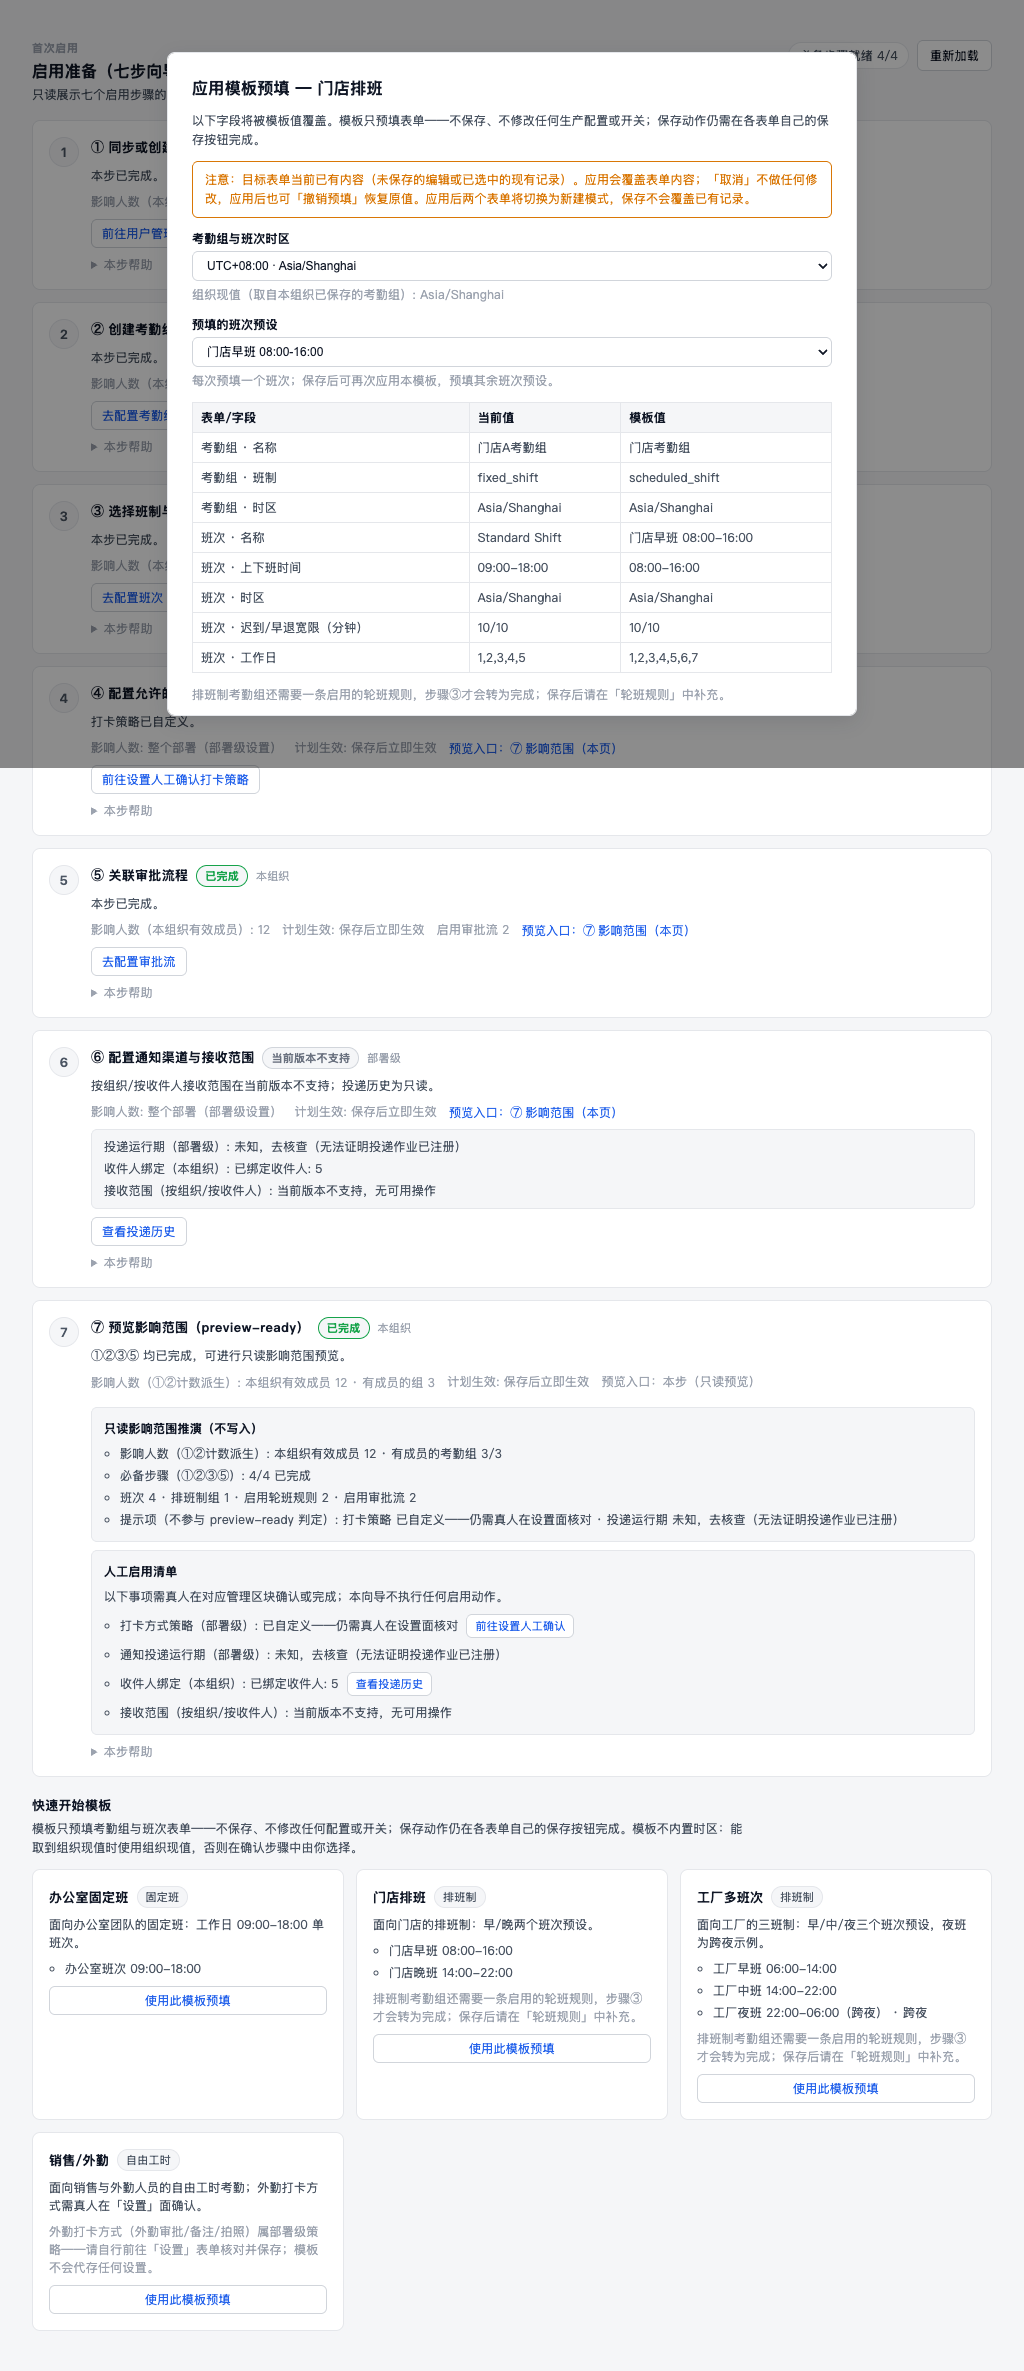
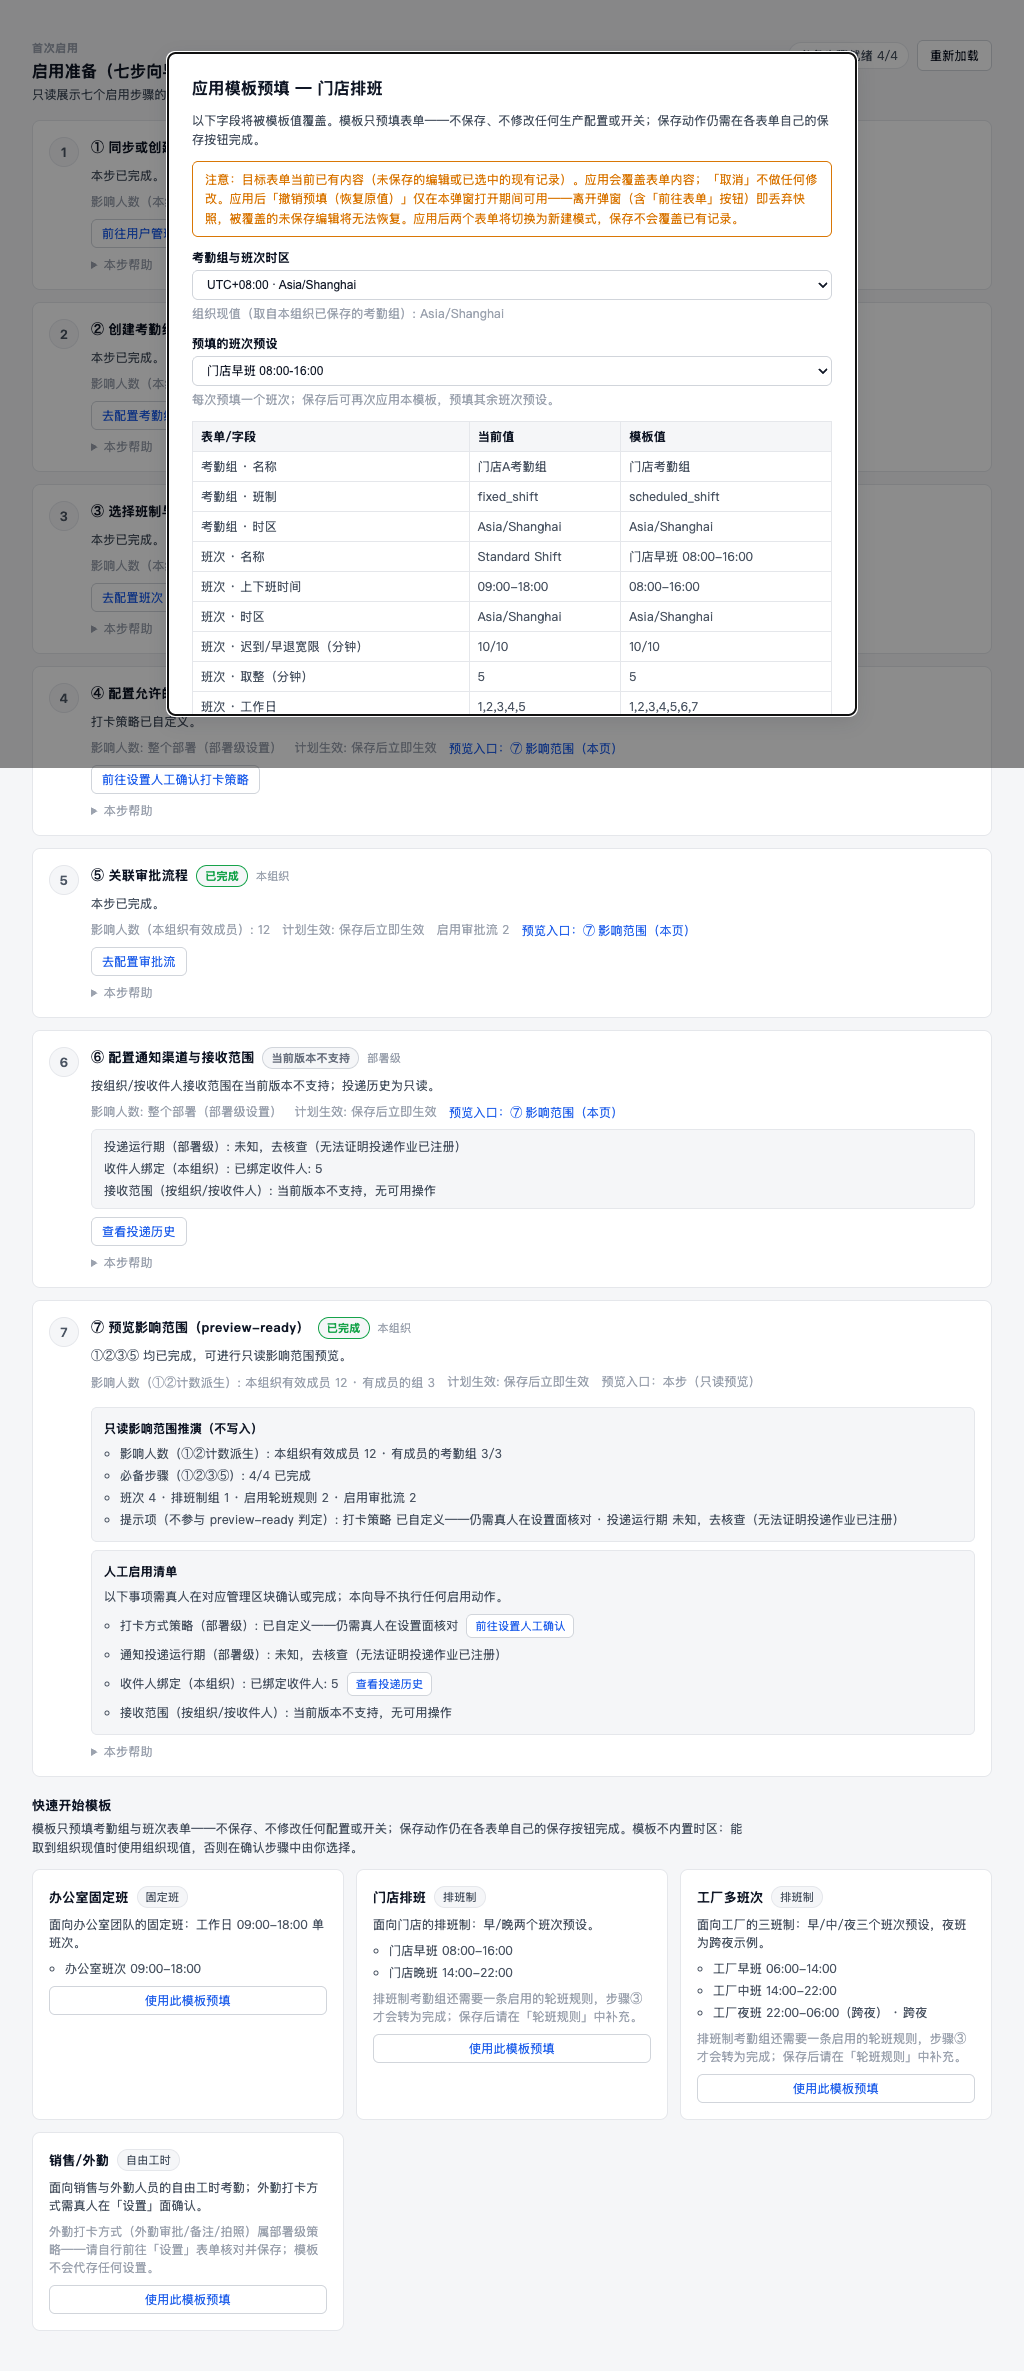
docs(attendance): W4-2 review absorption — in-repo §9 metrics runner + re-captured dialog evidence
- New docs/development/assets/w4-2-vnext-20260722/metrics-harness/setup-metrics-walk.ts:
  reproducible synthetic-org walk to preview-ready (real MetaSheetServer + plugin-attendance
  on real Postgres; dev-token admin + RBAC_BYPASS house posture). Prints a values-free
  ledger, asserts the exact final readiness shape (previewReady=true), restores settings
  (targeted key), deletes every fixture row and asserts residue=0. Honest measurement
  semantics printed by the runner itself: API wall clock proves reachability + step count —
  NOT the 20-minute human budget, NOT the no-internal-id property (UI-flow property, held
  by the wizard specs).
- Re-captured three-viewport evidence at the new head (capture harness, 8/8 presence PASS):
  4 dialog PNGs updated (rounding row / scoped-undo warning / undo-scope note / close
  button); 4 gallery PNGs byte-identical. Harness passes the new onClose noop.

Changed region(s): [[0.1875, 0.0624, 0.75, 0.3121], [0.75, 0.0624, 0.7812, 0.0936]]

diff --git a/docs/development/assets/w4-2-vnext-20260722/metrics-harness/setup-metrics-walk.ts b/docs/development/assets/w4-2-vnext-20260722/metrics-harness/setup-metrics-walk.ts
@@ -1,0 +1,281 @@
+// W4-2 §9 metric evidence runner (Wave 4 onboarding design-lock 2026-07-21, RATIFIED §9/§10):
+// synthetic-org walk to preview-ready against a REAL MetaSheetServer + plugin-attendance on a real
+// Postgres. Checked into the repo (docs/ assets — same posture as the sibling capture-harness/,
+// outside every CI gate glob) so the PR's §9 ledger is REPRODUCIBLE, not prose-only.
+//
+// Run from the repo root (needs a migrated MetaSheet Postgres; fail-closed without one):
+//   DATABASE_URL=postgresql://... pnpm --filter @metasheet/core-backend exec tsx \
+//     ../../docs/development/assets/w4-2-vnext-20260722/metrics-harness/setup-metrics-walk.ts
+//
+// What it does (house integration posture — dev-token admin + RBAC_BYPASS, exactly like
+// packages/core-backend `test:integration:attendance`):
+//   provision (OUTSIDE the walk): one `directory_integrations` local anchor row for a synthetic
+//   org (the org anchor `POST /api/admin/users` validates `attendanceOrgId` against; W4-PRE-1b).
+//   walk 基线: GET setup-readiness ⇒ asserts previewReady=false, member count 0.
+//   walk ①:  POST /api/admin/users (explicit attendanceOrgId — W4-PRE-1 canonical face)
+//   walk ②a: POST /api/attendance/groups
+//   walk ②b: POST /api/attendance/groups/:id/members
+//   walk ③:  POST /api/attendance/shifts
+//   walk ⑤:  POST /api/attendance/approval-flows
+//   walk ④:  GET + PUT /api/attendance/settings (the human canonical confirm path; restored
+//            byte-for-byte in cleanup)
+//   walk ⑦:  GET setup-readiness ⇒ asserts the EXACT final counts + previewReady=true.
+//   cleanup (OUTSIDE the walk): restore settings, delete every fixture row, then a residue
+//   count over every touched table — asserts 0.
+//
+// MEASUREMENT SEMANTICS (honest labeling — review finding absorbed): the TOTAL printed below is
+// API wall clock for the 7 admin-surface steps. It proves REACHABILITY (the synthetic org really
+// arrives at preview-ready — lock §9's §3.2 closed-loop requirement) and the step count. It does
+// NOT measure the charter §9 "new HR in 20 minutes" HUMAN budget, and the walk necessarily uses
+// internal ids in path params (walk ②b) and JSON bodies — so it does NOT prove the charter's
+// "no JSON / no internal id" property. That property belongs to the UI flow (wizard gallery →
+// template prefill → canonical forms) and is held by the wizard specs, not by this runner.
+//
+// Output is values-free: durations, counts, and enum values only — no ids, names, or settings
+// values are printed.
+
+const dbUrl = process.env.DATABASE_URL || process.env.ATTENDANCE_TEST_DATABASE_URL
+if (!dbUrl) {
+  // Fail closed: no default DB, no silent skip.
+  console.error('FAIL: DATABASE_URL (or ATTENDANCE_TEST_DATABASE_URL) is required.')
+  process.exit(1)
+}
+process.env.DATABASE_URL = dbUrl
+process.env.RBAC_BYPASS = 'true'
+process.env.SKIP_PLUGINS = 'false'
+if (!process.env.DB_QUERY_TIMEOUT) process.env.DB_QUERY_TIMEOUT = '180000'
+if (!process.env.DB_STATEMENT_TIMEOUT) process.env.DB_STATEMENT_TIMEOUT = '180000'
+
+interface LedgerRow {
+  label: string
+  seconds: number
+}
+
+function assertEqual(actual: unknown, expected: unknown, label: string): void {
+  if (actual !== expected) {
+    throw new Error(`ASSERT ${label}: expected ${String(expected)}, got ${String(actual)}`)
+  }
+}
+
+async function main(): Promise<void> {
+  const path = await import('node:path')
+  const { fileURLToPath } = await import('node:url')
+  const here = path.dirname(fileURLToPath(import.meta.url))
+  const repoRoot = path.resolve(here, '../../../../..')
+
+  // Import server code only AFTER env is set — the DB pool initializes at module import.
+  const { MetaSheetServer } = await import('../../../../../packages/core-backend/src/index')
+  const { query } = await import('../../../../../packages/core-backend/src/db/pg')
+
+  const server = new MetaSheetServer({
+    port: 0,
+    host: '127.0.0.1',
+    pluginDirs: [path.join(repoRoot, 'plugins', 'plugin-attendance')],
+  })
+  await server.start()
+  const address = server.getAddress()
+  if (!address || typeof address === 'string') {
+    throw new Error('Server did not expose a TCP address')
+  }
+  const baseUrl = `http://127.0.0.1:${address.port}`
+
+  const runId = Date.now().toString(36)
+  const orgId = `w42-metrics-${runId}`
+  const username = `w42metrics${runId}`
+
+  const tokenRes = await fetch(
+    `${baseUrl}/api/auth/dev-token?userId=w42-metrics-admin-${runId}&roles=admin&perms=attendance:read,attendance:write,attendance:admin`,
+  )
+  const token = ((await tokenRes.json()) as { token?: string }).token
+  if (!token) throw new Error('dev-token unavailable (NODE_ENV=production?)')
+  const headers = { Authorization: `Bearer ${token}`, 'Content-Type': 'application/json' }
+
+  async function call(method: string, url: string, body?: unknown): Promise<any> {
+    const res = await fetch(`${baseUrl}${url}`, {
+      method,
+      headers,
+      body: body === undefined ? undefined : JSON.stringify(body),
+    })
+    const json = (await res.json().catch(() => undefined)) as any
+    if (!res.ok || (json && json.ok === false)) {
+      throw new Error(`${method} ${url} -> HTTP ${res.status} code=${json?.error?.code ?? 'unknown'}`)
+    }
+    return json
+  }
+
+  const ledger: LedgerRow[] = []
+  async function step<T>(label: string, fn: () => Promise<T>): Promise<T> {
+    const start = process.hrtime.bigint()
+    const value = await fn()
+    const seconds = Number(process.hrtime.bigint() - start) / 1e9
+    ledger.push({ label, seconds })
+    return value
+  }
+
+  let anchorId = ''
+  let provisionSeconds = 0
+  let userId = ''
+  let groupId = ''
+  let originalSettings: unknown = null
+
+  try {
+    // --- provision (outside the walk): the org anchor row -----------------------------------
+    // corp_id shape is schema-enforced for local providers: local_integration_corp_id_shape
+    // CHECK (provider <> 'local' OR corp_id = 'local:' || org_id).
+    const provisionStart = process.hrtime.bigint()
+    const anchor = await query<{ id: string }>(
+      `INSERT INTO directory_integrations (org_id, provider, name, status, corp_id, sync_enabled)
+       VALUES ($1, 'local', $2, 'active', $3, false)
+       RETURNING id`,
+      [orgId, `w42-metrics-anchor-${runId}`, `local:${orgId}`],
+    )
+    anchorId = anchor.rows[0].id
+    provisionSeconds = Number(process.hrtime.bigint() - provisionStart) / 1e9
+
+    await step('walk 基线: GET setup-readiness (previewReady=false, members=0)', async () => {
+      const res = await call('GET', `/api/attendance-admin/setup-readiness?orgId=${encodeURIComponent(orgId)}`)
+      assertEqual(res.data.previewReady, false, 'baseline previewReady')
+      assertEqual(res.data.orgActiveMemberCount, 0, 'baseline orgActiveMemberCount')
+      assertEqual(res.data.groupCount, 0, 'baseline groupCount')
+    })
+
+    await step('walk ①: POST /api/admin/users (explicit attendanceOrgId)', async () => {
+      const res = await call('POST', '/api/admin/users', {
+        name: 'Metrics Walk User',
+        username,
+        attendanceOrgId: orgId,
+      })
+      userId = String(res.data?.user?.id ?? '')
+      if (!userId) throw new Error('walk ①: create-user response carried no user id')
+    })
+
+    await step('walk ②a: POST /api/attendance/groups', async () => {
+      const res = await call('POST', '/api/attendance/groups', {
+        orgId,
+        name: 'Metrics office group',
+        timezone: 'Asia/Shanghai',
+        attendanceType: 'fixed_shift',
+      })
+      groupId = String(res.data?.id ?? '')
+      if (!groupId) throw new Error('walk ②a: create-group response carried no id')
+    })
+
+    await step('walk ②b: POST /api/attendance/groups/:id/members', async () => {
+      await call('POST', `/api/attendance/groups/${groupId}/members`, { orgId, userId })
+    })
+
+    await step('walk ③: POST /api/attendance/shifts', async () => {
+      await call('POST', '/api/attendance/shifts', {
+        orgId,
+        name: 'Metrics day shift',
+        timezone: 'Asia/Shanghai',
+        workStartTime: '09:00',
+        workEndTime: '18:00',
+        lateGraceMinutes: 10,
+        earlyGraceMinutes: 10,
+        roundingMinutes: 5,
+        workingDays: [1, 2, 3, 4, 5],
+      })
+    })
+
+    await step('walk ⑤: POST /api/attendance/approval-flows', async () => {
+      await call('POST', '/api/attendance/approval-flows', {
+        orgId,
+        name: `Metrics leave flow ${runId}`,
+        requestType: 'leave',
+        steps: [{ name: 'Manager', approverUserIds: [userId] }],
+        isActive: true,
+      })
+    })
+
+    await step('walk ④: GET + PUT /api/attendance/settings (human canonical confirm; restored in cleanup)', async () => {
+      const current = await call('GET', '/api/attendance/settings')
+      // Customize ONE §3.1 closed-set key (minPunchIntervalMinutes, default 1) so ④'s posture is
+      // provably `customized`; record only that key for a targeted restore — a whole-object PUT
+      // restore can trip the write schema's stricter enums on pre-existing deployment values.
+      const currentInterval = Number(current.data?.minPunchIntervalMinutes ?? 1)
+      originalSettings = { minPunchIntervalMinutes: currentInterval }
+      await call('PUT', '/api/attendance/settings', {
+        minPunchIntervalMinutes: currentInterval === 7 ? 8 : 7,
+      })
+    })
+
+    await step('walk ⑦: GET setup-readiness (final)', async () => {
+      const res = await call('GET', `/api/attendance-admin/setup-readiness?orgId=${encodeURIComponent(orgId)}`)
+      assertEqual(res.data.orgActiveMemberCount, 1, 'final orgActiveMemberCount')
+      assertEqual(res.data.groupCount, 1, 'final groupCount')
+      assertEqual(res.data.groupsWithMembers, 1, 'final groupsWithMembers')
+      assertEqual(res.data.shiftCount, 1, 'final shiftCount')
+      assertEqual(res.data.scheduledShiftGroupCount, 0, 'final scheduledShiftGroupCount')
+      assertEqual(res.data.approvalFlowCount, 1, 'final approvalFlowCount')
+      assertEqual(res.data.punchPolicyPosture, 'customized', 'final punchPolicyPosture')
+      assertEqual(res.data.previewReady, true, 'final previewReady (§3.2 closed loop)')
+    })
+
+    // --- ledger ------------------------------------------------------------------------------
+    const total = ledger.reduce((sum, row) => sum + row.seconds, 0)
+    console.log('')
+    console.log('=== W4-2 §9 synthetic-org walk ledger (API wall clock, values-free) ===')
+    console.log(`provision: 合成 org 锚点（fixture SQL，walk 外） — ${provisionSeconds.toFixed(2)}s`)
+    for (const row of ledger) {
+      console.log(`${row.label} — ${row.seconds.toFixed(2)}s`)
+    }
+    console.log(`TOTAL wall clock: ${total.toFixed(2)}s (7 admin-surface steps)`)
+    console.log('')
+    console.log('Measurement semantics: TOTAL proves REACHABILITY + step count (synthetic org truly')
+    console.log('reaches preview-ready; ④⑥ advisory did not block). It is NOT the charter\'s 20-minute')
+    console.log('HUMAN budget, and this API walk uses internal ids (walk ②b) — the "no JSON / no')
+    console.log('internal id" property is a UI-flow property held by the wizard specs, not proven here.')
+  } finally {
+    // --- cleanup (outside the walk): restore settings, delete fixtures, count residue --------
+    try {
+      if (originalSettings) {
+        await call('PUT', '/api/attendance/settings', originalSettings)
+      }
+      if (anchorId) {
+        await query('DELETE FROM attendance_group_members WHERE org_id = $1', [orgId])
+        await query('DELETE FROM attendance_groups WHERE org_id = $1', [orgId])
+        await query('DELETE FROM attendance_shifts WHERE org_id = $1', [orgId])
+        await query('DELETE FROM attendance_approval_flows WHERE org_id = $1', [orgId])
+        await query('DELETE FROM user_orgs WHERE org_id = $1', [orgId])
+        if (userId) {
+          await query('DELETE FROM user_roles WHERE user_id = $1', [userId])
+          await query('DELETE FROM users WHERE id = $1', [userId])
+        }
+        await query('DELETE FROM directory_integrations WHERE id = $1', [anchorId])
+        const residue = await query<{ total: string }>(
+          `SELECT (
+             (SELECT COUNT(*) FROM attendance_group_members WHERE org_id = $1)
+           + (SELECT COUNT(*) FROM attendance_groups WHERE org_id = $1)
+           + (SELECT COUNT(*) FROM attendance_shifts WHERE org_id = $1)
+           + (SELECT COUNT(*) FROM attendance_approval_flows WHERE org_id = $1)
+           + (SELECT COUNT(*) FROM user_orgs WHERE org_id = $1)
+           + (SELECT COUNT(*) FROM directory_integrations WHERE org_id = $1)
+           + (SELECT COUNT(*) FROM users WHERE id = $2)
+           )::int AS total`,
+          [orgId, userId || anchorId],
+        )
+        const residueCount = Number(residue.rows[0]?.total ?? -1)
+        console.log(`cleanup residue across touched tables: ${residueCount} (settings restored)`)
+        if (residueCount !== 0) {
+          process.exitCode = 1
+          console.error('FAIL: cleanup residue is not 0')
+        }
+      }
+    } finally {
+      await server.stop()
+    }
+  }
+}
+
+main().then(
+  () => {
+    // MetaSheetServer leaves non-unref'd scheduler intervals behind even after stop() — exit
+    // explicitly so the runner terminates deterministically once cleanup has completed.
+    process.exit(process.exitCode ?? 0)
+  },
+  (error) => {
+    console.error(`FAIL: ${error instanceof Error ? error.message : String(error)}`)
+    process.exit(1)
+  },
+)

diff --git a/docs/development/assets/w4-2-vnext-20260722/capture-harness/w42SetupTemplatesHarness.ts b/docs/development/assets/w4-2-vnext-20260722/capture-harness/w42SetupTemplatesHarness.ts
@@ -126,6 +126,7 @@ createApp({
           onApply: () => {},
           onCancel: () => {},
           onUndo: () => {},
+          onClose: () => {},
           onNavigate: () => {},
         }),
       )
